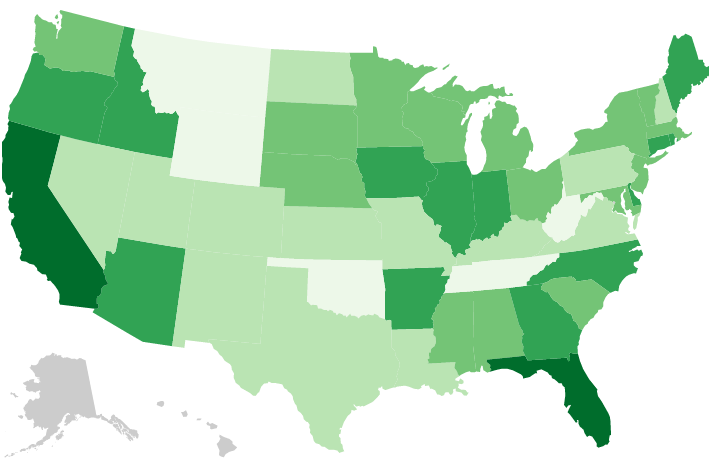
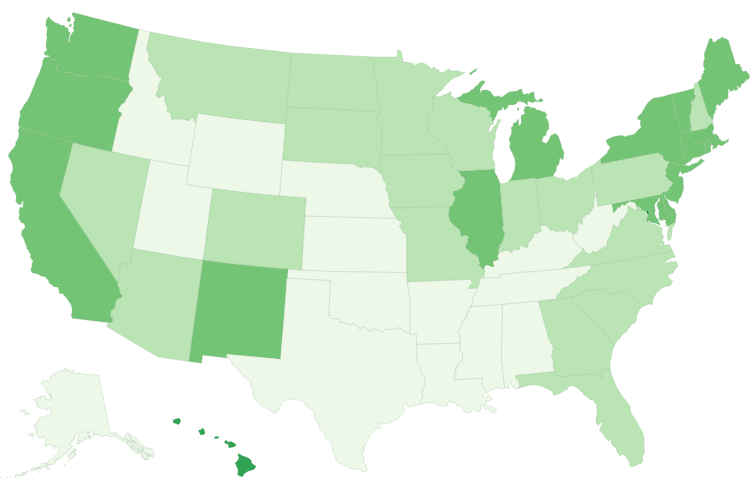
Style fixes woot

diff --git a/graph.js b/graph.js
@@ -51,18 +51,12 @@ var graph = {
       var w = $(svgInput).width();
       var h = $(svgInput).height();
 
-      var minLength = Math.min(w, h);
-
       var scaleVar;
       
       if (Block.vars.scale) {
         scaleVar = Block.vars.scale;
       } else {
-        if (minLength == w){
-         scaleVar=700*(h/700); 
-        } else {
-          scaleVar=700*(h/500); 
-        }
+        scaleVar = w < (h * 1.5) ? w * 1.3 : h * 2.1;
       }
 
       var projection = d3.geo.albersUsa()
@@ -151,6 +145,7 @@ var graph = {
           var dataState = Block.vars.csv.data[i][Block.vars.csv.columnRoleMap.state[0]];
           var dataValue = parseFloat(Block.vars.csv.data[i][Block.vars.csv.columnRoleMap.value[0]]);
           var dataText;
+
           if (Block.vars.csv.columnRoleMap.text_metrics.length > 0){
             var dataTextArray = [];
             Block.vars.csv.columnRoleMap.text_metrics.forEach(function(label){
@@ -160,8 +155,9 @@ var graph = {
             });
              dataText = dataTextArray.join(", ");
           } else {
-            dataText = Block.vars.csv.columnRoleMap.value[0] + ' : ' + d3.format(Block.vars.tooltip_format)(dataValue);
+            dataText = Block.vars.csv.columnRoleMap.value[0];
           }
+
           for (var j = 0; j < json.features.length; j++) {
             var jsonState = json.features[j].properties.name;
             if (dataState.replace(/\./g,"").toUpperCase() == jsonState.replace(/\./g,"").toUpperCase()) {
@@ -190,6 +186,7 @@ var graph = {
               return Block.vars.undefined_color;
             }
           })
+          .style('stroke-width', 0.25)
           .style('stroke', Block.vars.border_color);
         
         var all_paths = graph.svg.selectAll("path")
@@ -213,16 +210,21 @@ var graph = {
               d3.select(graph.selectors.tooltip_div)
                 .style("left", xPosition + "px")
                 .style("top", yPosition + "px");
+
               d3.select(graph.selectors.tooltip_title)
                 .text(d.properties.name);
+
               d3.select(graph.selectors.tooltip_text)
                 .text(d.properties.text);
+
+              d3.select("#value")
+                .text(d.properties.value);
 
               d3.select(graph.selectors.tooltip_div).classed("hidden", false);
             }
 
             if (Block.vars.highlight){
-              d3.select(this).style('opacity','0.3')
+              d3.select(this).style('opacity','0.6')
             }
           })
 
@@ -238,8 +240,8 @@ var graph = {
         })
       });
       function zoomable() {
-        trans=d3.event.translate;
-        scale=d3.event.scale;
+        trans = d3.event.translate;
+        scale = d3.event.scale;
 
         graph.svg.attr("transform",
             "translate(" + trans + ")"

diff --git a/main.css b/main.css
@@ -5,9 +5,7 @@
   padding: 0px 0px;
   margin: 0px 0px;
   background-color: white;
-  /*-webkit-border-radius: 10px;
-  -moz-border-radius: 10px;
-  border-radius: 10px;*/
+
   -webkit-box-shadow: 4px 4px 10px rgba(0, 0, 0, 0.4);
   -moz-box-shadow: 4px 4px 10px rgba(0, 0, 0, 0.4);
   box-shadow: 4px 4px 10px rgba(0, 0, 0, 0.4);
@@ -15,15 +13,23 @@
   text-align: center;
 }
 
-#tooltip div#tooltitle {
-  padding:1px 10px;
-  background-color: rgba(0,0,0,0.1);
+#tooltip {
+  font-family: sans-serif;
+  font-size: 12px;
+  text-align: left;
+  padding: 11px 10px;
+  border-radius: 3px;
+  border: 1px solid rgba(0,0,0,0.1);
 }
 
-#tooltip div#tooltext {
-  padding:1px 10px;
+#tooltip #tooltitle {
+  background-color: white;
+  margin-bottom: 3px;
 }
 
-#tooltip div p {
-  margin: 5px 0;
+#tooltip #tooltext {
+}
+
+#value {
+  font-weight: bold;
 }

diff --git a/index.html b/index.html
@@ -24,7 +24,7 @@
         <p><strong><span id="tooltitlevalue"></span></strong></p>
       </div>
       <div id="tooltext">
-        <p><span id="tooltextvalue"></span></p>
+        <p><span id="tooltextvalue"></span>: <strong id="value"></strong></p>
       </div>
     </div>
   </body>
